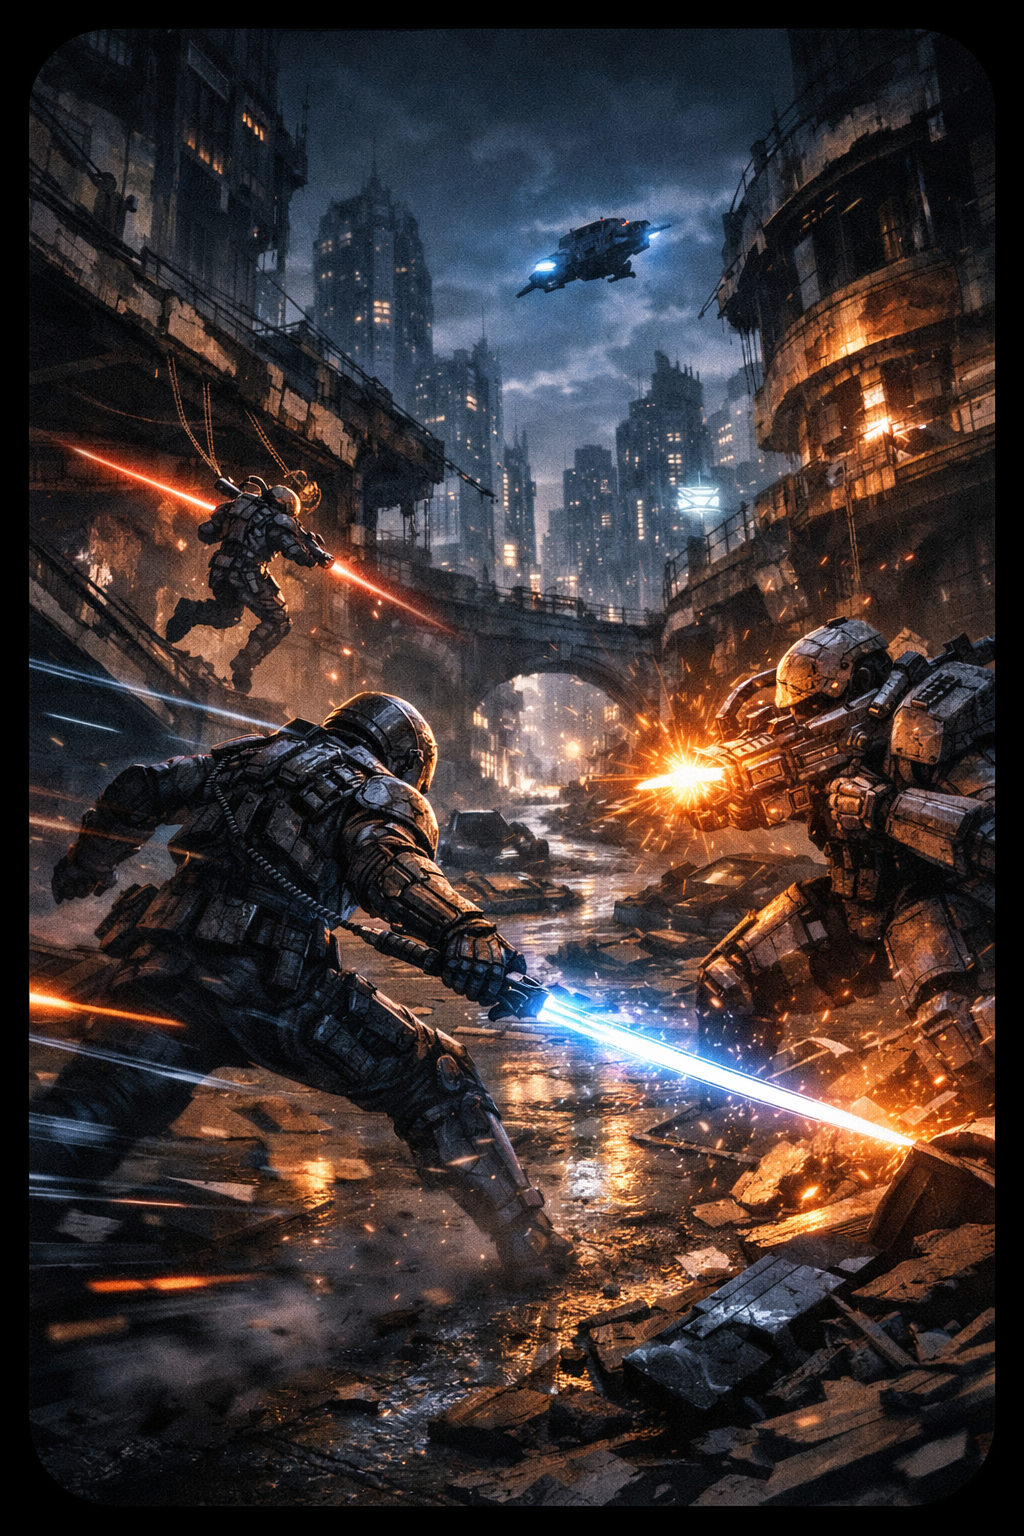
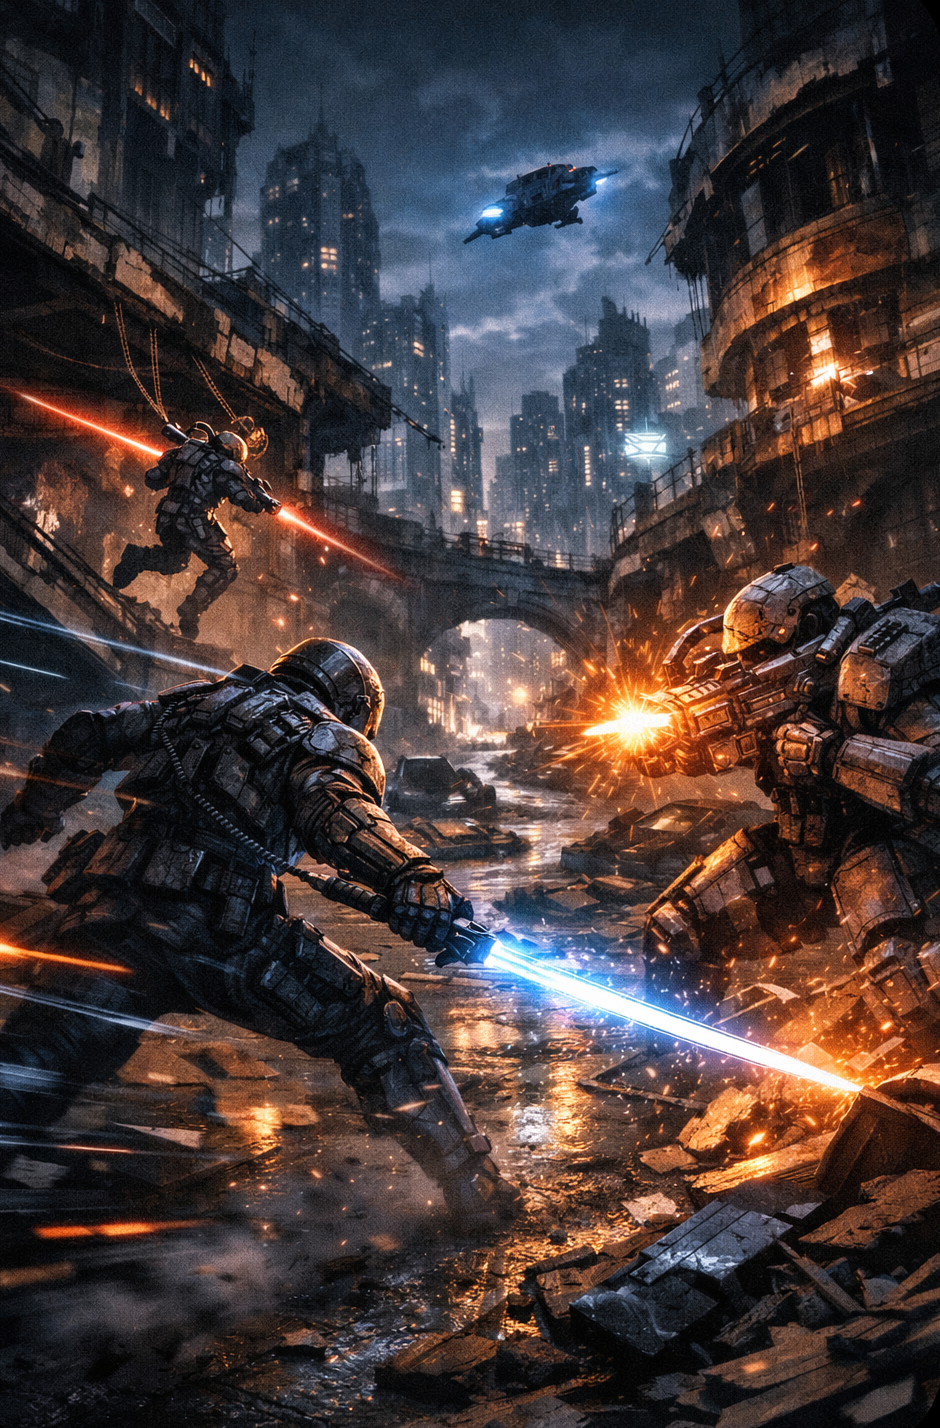
画像修正

diff --git a/HTML_INDIVIDUAL_EXERCISE/css/game-lp.css b/HTML_INDIVIDUAL_EXERCISE/css/game-lp.css
@@ -46,7 +46,7 @@ nav a {
     height: 100vh;
 
     background:
-        url("../images/hero.png") center/cover no-repeat;
+        url("../images/hero.webp") center/cover no-repeat;
 
     display: flex;
     justify-content: center;
@@ -187,18 +187,7 @@ nav a {
 }
 
 .card:hover {
-    transform: translateY(-12px);
-    transform: scale(1.05);
-}
-
-.card img {
-    width: 100%;
-    height: 180px;
-    object-fit: cover;
-    border-radius: 16px;
-    margin-bottom: 20px;
-
-    transition: 0.4s;
+    transform: translateY(-12px) scale(1.05);
 }
 
 /* about関連 */
@@ -209,7 +198,7 @@ nav a {
     background:
         linear-gradient(135deg, rgba(8, 21, 47, 0.6), rgba(14, 41, 79, 0.6)),
         /* 前に設定するグラデーションの透過 */
-        url("../images/about.png");
+        url("../images/about.webp");
 
     background-size: cover, 90%;
     background-position: center, center;
@@ -300,18 +289,17 @@ nav a {
     position: relative;
     width: 320px;
     height: 420px;
-
     border-radius: 24px;
     overflow: hidden;
-
     box-shadow: 0 20px 50px rgba(0, 0, 0, 0.45);
 
     opacity: 0;
-    transform: translateY(40px);
-    transition: 0.6s;
+    transform: translateY(50px);
+    transition: opacity 1s ease, transform 1s ease;
 }
 
 .image-card img {
+    display: block;
     width: 100%;
     height: 100%;
     object-fit: cover;
@@ -353,12 +341,6 @@ nav a {
     transform: translateY(-15px) scale(1.03);
 }
 
-.image-card {
-    opacity: 0;
-    transform: translateY(50px);
-    transition: all 1s ease;
-}
-
 .image-card.show {
     opacity: 1;
     transform: translateY(0);
@@ -376,7 +358,7 @@ html {
     height: 60vh;
     /* 画面の60% */
 
-    background-image: url("../images/download-b.png");
+    background-image: url("../images/download-b.webp");
     background-size: auto 105%;
     background-repeat: no-repeat;
     background-position: center 10%;

diff --git a/HTML_INDIVIDUAL_EXERCISE/game-lp.html b/HTML_INDIVIDUAL_EXERCISE/game-lp.html
@@ -53,7 +53,7 @@
 
     <section id="features" class="cards-overlap">
         <div class="image-card">
-            <img src="images/world.png" alt="">
+            <img src="images/world.webp" alt="Open World">
             <div class="card-overlay">
                 <h3>Open World</h3>
                 <p>自由探索できる近未来都市</p>
@@ -61,7 +61,7 @@
         </div>
 
         <div class="image-card">
-            <img src="images/battle.png" alt="">
+            <img src="images/battle.webp" alt="Battle System">
             <div class="card-overlay">
                 <h3>Battle System</h3>
                 <p>高速アクション戦闘</p>
@@ -69,7 +69,7 @@
         </div>
 
         <div class="image-card">
-            <img src="images/story.png" alt="">
+            <img src="images/story.webp" alt="Story">
             <div class="card-overlay">
                 <h3>Story</h3>
                 <p>分岐するマルチエンディング</p>
